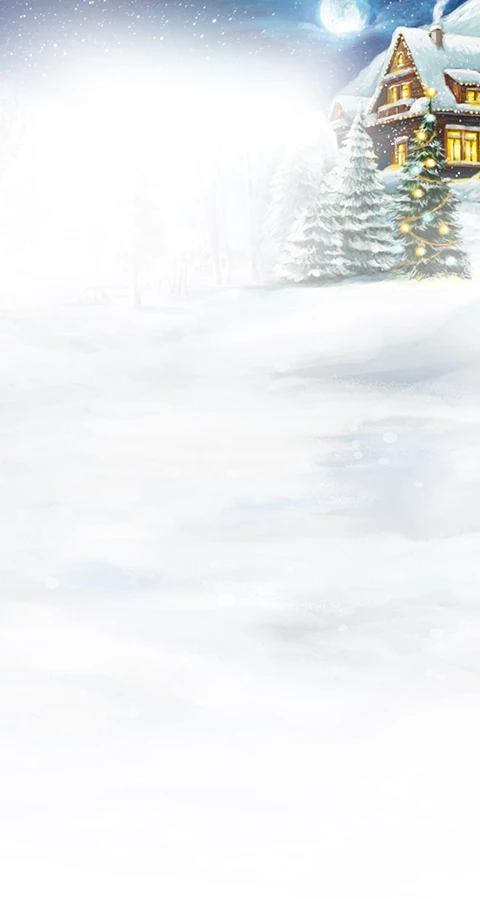
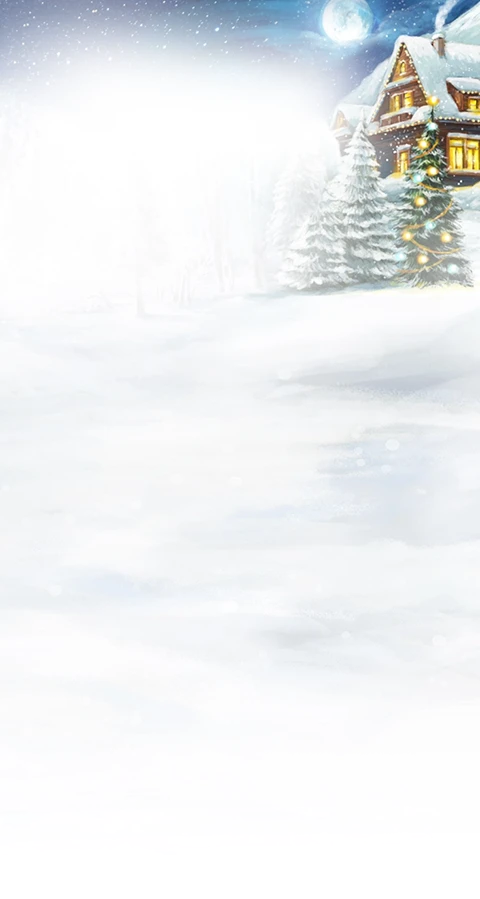
added: Mobile second background

Changed region(s): [[0.2812, 0.0, 1.0, 0.3426], [0.1875, 0.0, 0.2188, 0.0311], [0.0312, 0.0, 0.0625, 0.0311]]

diff --git a/public/css/style.css b/public/css/style.css
@@ -1108,10 +1108,12 @@ rect {
     top: 90px;
   }
   body {
-    background-image: url("/assets/img/bg-sm.webp");
+    /* background-image: url("/assets/img/bg-sm.webp");
     background-attachment: unset;
     background-repeat: no-repeat;
-    background-size: unset;
+    background-size: unset; */
+    background-image: unset;
+
   }
   header {
     position: relative;
@@ -1212,6 +1214,27 @@ rect {
   }
   .input-checkbox {
     margin-top: 15px;
+  }
+  .bg-2 {
+    background-image: url("/assets/img/test.png"); 
+    width: 100%;
+    height: 100%;
+    position: absolute;
+    background-repeat: repeat;
+    z-index: -2;
+  }
+  .bg-1 {
+    background-image: url("/assets/img/bg-sm.webp"); 
+    width: 100%;
+    height: 100%;
+    position: absolute;
+    z-index: -1;
+    background-attachment: fixed;
+    background-position: center var(--header-height);
+    background-size: cover;
+    background-attachment: unset;
+    background-repeat: no-repeat;
+    background-size: unset;
   }
 }
 
